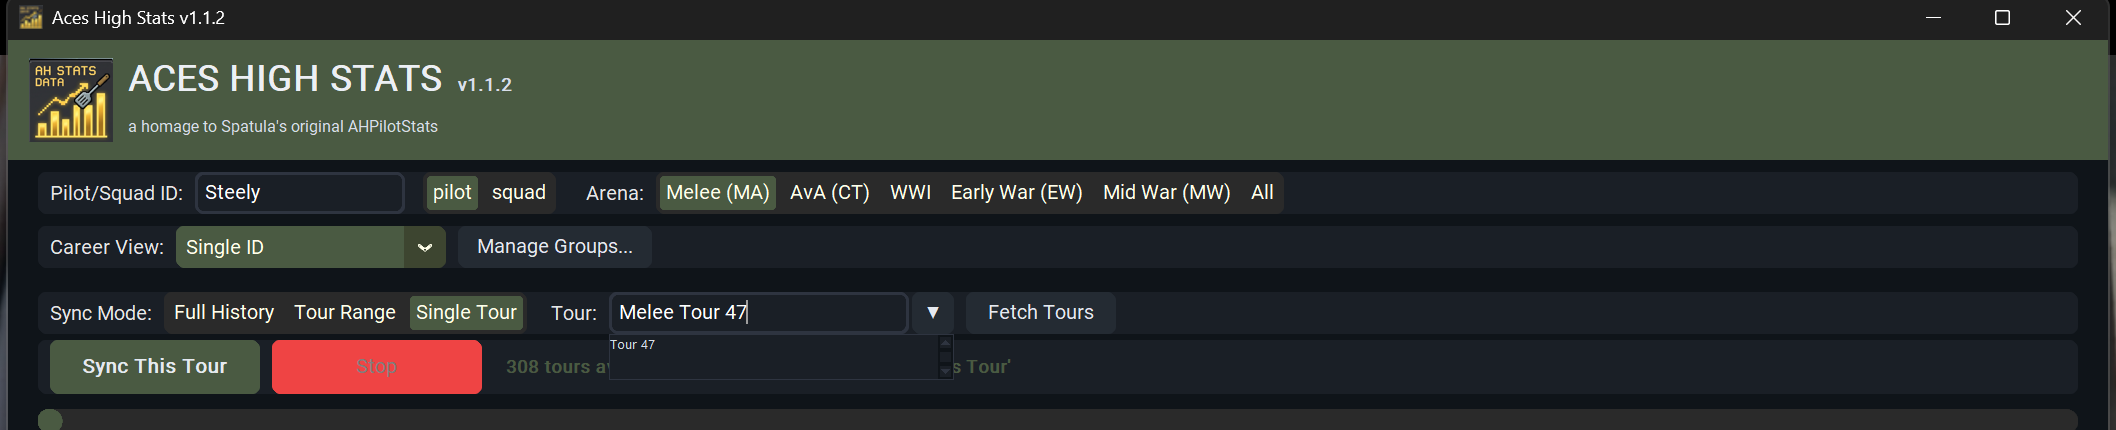
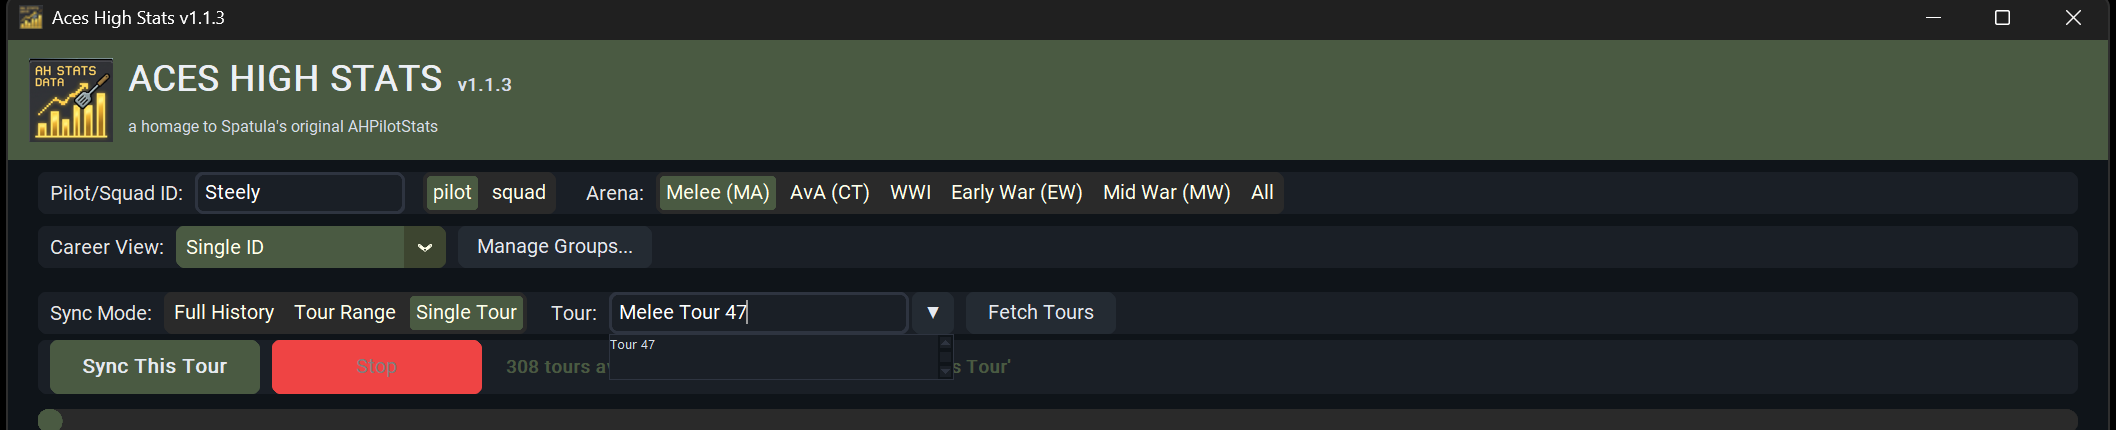
Stop clam framing every grid in white
borderwidth=0 does not switch the bevel off - clam draws it from
lightcolor/darkcolor/bordercolor, which were left at their light
defaults, so every table sat inside a near-white frame. They take
BORDER_GRAY now: still an edge, but one that belongs to the theme.

Same root cause as the scrollbars in 57de3c4, and the last of it.

Release v1.1.3.

Changed region(s): [[0.9981, 0.1209, 1.0, 1.0], [0.0, 0.6651, 0.0312, 1.0], [0.0, 0.1512, 0.0312, 0.4535]]

diff --git a/tests/test_widgets.py b/tests/test_widgets.py
@@ -255,7 +255,7 @@ class SearchableSelectTests(unittest.TestCase):
         self.assertEqual(self.widget._filtered, ["Tour 12", "Tour 13"])
 
 
-class ScrollbarStyleTests(unittest.TestCase):
+class TtkStyleTests(unittest.TestCase):
     """The dropdown and every grid share one ttk scrollbar style.
 
     theme.py styled "Vertical.TScrollbar" and "Horizontal.TScrollbar"
@@ -286,6 +286,18 @@ class ScrollbarStyleTests(unittest.TestCase):
         for option in ("lightcolor", "darkcolor", "bordercolor"):
             with self.subTest(option=option):
                 self.assertEqual(style.lookup("TScrollbar", option), theme.BG_DARK)
+
+    def test_the_grids_are_not_framed_in_white(self):
+        """Same clam bevel, same near-white frame - borderwidth=0 does
+        not switch it off, only dark colours do."""
+        from tkinter import ttk
+
+        from ahstats import theme
+
+        style = ttk.Style(_root)
+        for option in ("lightcolor", "darkcolor", "bordercolor"):
+            with self.subTest(option=option):
+                self.assertEqual(style.lookup("Treeview", option), theme.BORDER_GRAY)
 
 
 if __name__ == "__main__":

diff --git a/ahstats/theme.py b/ahstats/theme.py
@@ -54,6 +54,13 @@ def style_treeview() -> None:
         borderwidth=0,
         rowheight=28,
         font=tree_font,
+        # borderwidth=0 doesn't stop clam drawing its bevel: it frames
+        # every grid in near-white unless these are given dark values.
+        # BORDER_GRAY rather than the background, so the grid still has
+        # an edge - just one that belongs to the theme.
+        bordercolor=BORDER_GRAY,
+        lightcolor=BORDER_GRAY,
+        darkcolor=BORDER_GRAY,
     )
     style.map(
         "Treeview",

diff --git a/ahstats/__init__.py b/ahstats/__init__.py
@@ -5,4 +5,4 @@
 #
 # Bump this in the same commit that tags a release - a git tag on its own
 # leaves the running app claiming the previous version.
-__version__ = "1.1.2"
+__version__ = "1.1.3"

diff --git a/CHANGELOG.md b/CHANGELOG.md
@@ -4,6 +4,23 @@ Every released version, newest first. The same text goes on the
 [Releases](https://github.com/steelington/AHStats/releases) page, where the
 Windows exe for each version is attached.
 
+## v1.1.3 - Scrollbars and grid borders that match the rest of the app
+
+Cosmetic only. Nothing to re-sync, nothing to delete, and nothing behaves
+differently - it just stops looking like two applications stitched together.
+
+### Fixed
+
+**Scrollbars are dark.** Every scrollbar in the app - down the grids, down the
+tour dropdown - was drawn in light grey with a ridged thumb and raised 3D
+arrows, a Windows 95 control sitting in the middle of a dark window. The theme
+had always meant to style them; it was setting the colours on a name none of
+the scrollbars actually used, so they quietly kept the defaults.
+
+**Grids are no longer framed in white.** Same cause: a near-white bevel drawn
+around every table. The grids now carry the same soft grey edge as the rest of
+the panels.
+
 ## v1.1.2 - Type a tour number, get that tour
 
 v1.1.1 read what you typed into the tour box, but then went looking for it in
